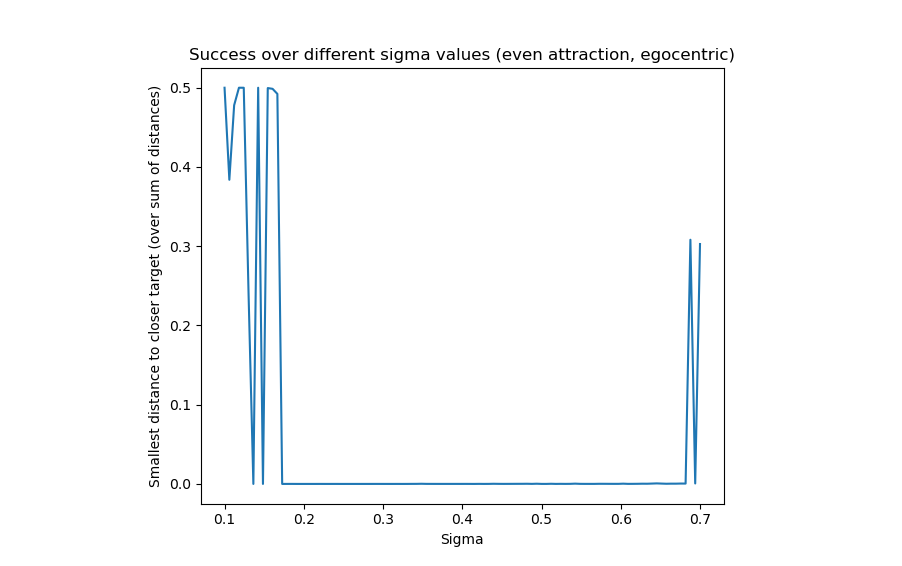
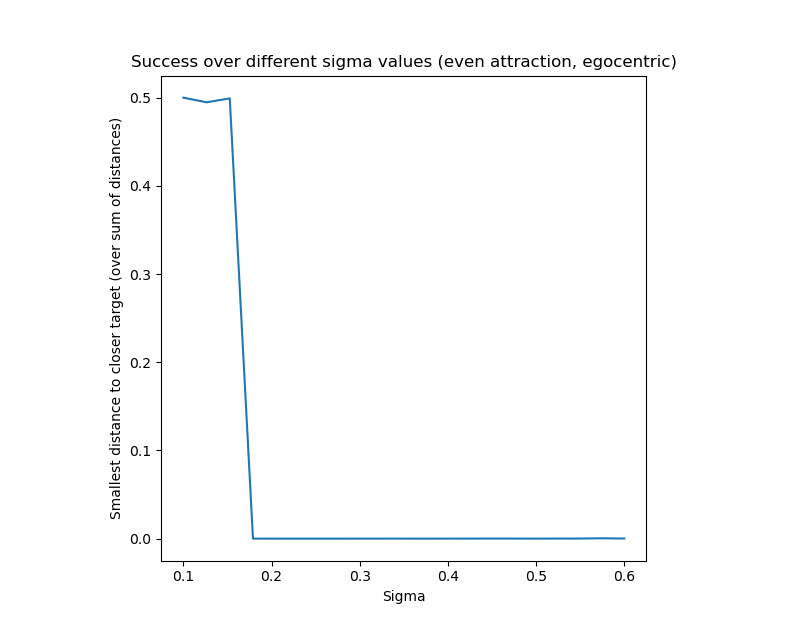
running 50 simulations for each parameter value and taking the mean success measure

diff --git a/simulations.py b/simulations.py
@@ -8,71 +8,56 @@ import simulation_metrics
 
 # --- Setting up the grid ---
 
-#number of neurons in the alpha ring
+# number of neurons in the alpha ring
 N = 100
 
-#total size of the grid
+# total size of the grid
 L = 100
 
 # --- Geometry-based parameters to change ---
 
-#number of targets
 ntargets = 2
-
-#number of agents: 
+ 
 nagents = 1
 
-#setting up the agent
 initialx = np.zeros(nagents)
 initialy = np.zeros(nagents)
 for a in range(nagents):
     initialx[a] = 20
     initialy[a] = 50
     
-#setting up the targets
 initialxt = [80,80]
 initialyt = [20,80]
 
-
-
-
-
 # --- Setting up the simulation ---
 
-#number of time steps
+# number of time steps
 T = 5000
 
-#periodic flag
 periodicflag = 0
 
-#rego
 rEgo = 0
 
-#in the original code the simulation is run 5 times with [0, 0.5, 1, 2, 4] as values
+# in the original code the simulation is run 5 times with [0, 0.5, 1, 2, 4] as values
 rEgoTarget = 0
 
-#egonumber
 Egonumber = 1
 
-#collision avoidance:
+# collision avoidance:
 hColl = -10
 rColl = 0
 
-#in the original code the simulation runs it on 0 once and then 1 five times
+# in the original code the simulation runs it on 0 once and then 1 five times
 distf = 1
 
-#this determines the "characteristic length of signal decay",
-#original code iterates through [1, 1, 2, 4, 8, 16]
+# original code iterates through [1, 1, 2, 4, 8, 16]
 adistf = 1
 
-#step size
 dt = 0.1
 
-#v0: velocity I believe
 v0 = 0.05
 
-#v0t: velocity of targets I believe
-#in the original code it is initialized to zero but that doesn't really make sense to me
+# not moving targets for now
 v0t = np.zeros(ntargets)
 for i in range(ntargets):
     v0t[i] = 0
@@ -92,79 +77,59 @@ for i in range(N):
 
 # --- Details of the simulation to change ---
 
-#allocentric flag
-allocentricFlag = [0]
+# 1 is allo, 0 is ego
+allocentricFlag = [1]
 
-#attraction
-h0s = [[0.45,0.46]]
+# attraction vector, first are attraction for targets, then agents
+h0s = [[0.45,0.45]]
 
-#hbase
 h_b = [0.2]
 
-#width of the gauss bump 
-sigma = np.linspace(0.1,0.7,num=100)
+# width of the gauss bump 
+sigma = np.linspace(0.1,0.6,num=20)
 
-#noise parameter 
+# noise parameter 
 beta = [100]
 
 # data we will collect each time we run the simulation
+# currently not collecting this
 targets_reached = []
 time_to_target = []
 movement_starts = []
-min_distance = []
+mean_distance = []
 
 decision1_time = []
 decision2_time = []
 
-allo = []
-attraction = []
-h_bs = []
-sigmas = []
-
 # number of times to run the simulation
-n_samples = 1
+n_samples = 50
 
 # -------- Running the simulation --------
 
-#this is running the sim with a bunch of changes in variables
+# this is running the sim with a bunch of changes in variables
 
-for sim in range(n_samples):
-    for orientation in range(len(allocentricFlag)):
-        for h in range(len(h0s)):
-            h0 = h0s[h]
-            for hb in range(len(h_b)):
-                for s in range(len(sigma)):
-                    for b in range(len(beta)):
+
+for orientation in range(len(allocentricFlag)):
+    for h in range(len(h0s)):
+        h0 = h0s[h]
+        for hb in range(len(h_b)):
+            for s in range(len(sigma)):
+                print(f"sigma: {s}")
+                for b in range(len(beta)):
+                    for sim in range(n_samples):
+                        min_distance = []
                         headings, xPos, yPos, targetsx, targetsy = simulate_ringattractor.simulate_ring_attractor(N,L,T,ntargets,nagents,allocentricFlag[orientation],periodicflag,rEgo,rEgoTarget,Egonumber,
                                     distf,adistf,J,beta[b],h0,h_b[hb],dt,v0,v0t,sigma[s],hColl,rColl,
                                     initialx,initialy,initialxt,initialyt,False,False)
-                        
-                        final_decision, time_reached, movement_start = simulation_metrics.get_destination_metrics(xPos,yPos,targetsx,targetsy)
-                        decision_indices = simulation_metrics.get_direction_info(headings,movement_start,time_reached,1)
-                        success_measure = simulation_metrics.get_min_distance(xPos, yPos, targetsx, targetsy, True, 1)
-                        movement_starts.append(movement_start)
-                        targets_reached.append(final_decision)
-                        time_to_target.append(time_reached)
+                        success_measure = simulation_metrics.get_min_distance(xPos, yPos, targetsx, targetsy, False)
                         min_distance.append(success_measure)
-                        allo.append(allocentricFlag[orientation])
-                        attraction.append(h0s[h])
-                        h_bs.append(h_b[hb])
-                        sigmas.append(sigma[s])
-                        if len(decision_indices) > 0:
-                            decision1_time.append(decision_indices[0])
-                        else:
-                            decision1_time.append(-1)
-                        print(f"time: {s}")
+                    mean_distance.append(np.mean(min_distance))
 
-sim_data = {'Distance to closest target over sum of distances': min_distance,'Final target': targets_reached,'Time to target': time_to_target, 'Movement starts': movement_starts, 'First decision time': decision1_time, 'Allocentric or egocentric': allo, 'Attraction': attraction, 'Base attraction': h_bs, 'sigma': sigmas}
-sim_df = pd.DataFrame(sim_data)
-pd.set_option('display.max_columns', None)
-sim_df.to_csv("simulation_resuts.csv") 
 
 # plot x axis as param of interest, plot y axis as success measure
 plt.figure(1)
-plt.plot(sigma, min_distance)
-plt.title("Success over different sigma values (uneven attraction, egocentric)")
+plt.plot(sigma, mean_distance)
+plt.title("Success over different sigma values (even attraction, allocentric)")
 plt.xlabel("Sigma")
-plt.ylabel("Smallest distance to better target (over sum of distances)")
+plt.ylabel("Smallest distance to closer target (over sum of distances)")
 plt.show()

diff --git a/simulate_ringattractor.py b/simulate_ringattractor.py
@@ -9,14 +9,12 @@ def simulate_ring_attractor(N,L,T,ntargets,nagents,allocentricFlag,periodic_flag
 
     # -------- INITIALIZATIONS WITHIN THE SIMULATION --------
 
-    #setting up the alpharing
     alpharing0 = np.linspace(0,2*np.pi, N+1)
     alpharing0 = alpharing0[:-1]
     alpharing = np.zeros((nagents,N))
     for a in range (nagents):
         alpharing[a,:] = alpharing0
 
-    #setting up array to hold ring states at different times
     uArray = np.zeros((N, nagents, T+1))
     u0 = 0.05*np.random.randn(N,nagents) #initialize randomly
     uArray[:,:,0] = u0
@@ -47,7 +45,6 @@ def simulate_ring_attractor(N,L,T,ntargets,nagents,allocentricFlag,periodic_flag
         Egocentric = np.zeros(nagents)
         
         #contribution of other agents
-
         for a in range(nagents):
             xa = xPos[a,tstep]
             ya = yPos[a,tstep]
@@ -60,7 +57,6 @@ def simulate_ring_attractor(N,L,T,ntargets,nagents,allocentricFlag,periodic_flag
 
                 dx = xb - xa
                 dy = yb - ya
-                #Periodic flag add (not yet)
 
                 if periodic_flag == 1:
                     if abs(dx) > L / 2:
@@ -71,7 +67,6 @@ def simulate_ring_attractor(N,L,T,ntargets,nagents,allocentricFlag,periodic_flag
                 distAB = np.sqrt(dx**2 + dy**2)
                 ampl = h0[ntargets+b]
                 if distf != 0: 
-                    #don't technically need this, but original code runs one sim with distf =0
                     ampl = ampl*(np.exp(-adistf*distAB/L))
                 if distAB < rColl:
                     ampl = hColl
@@ -108,7 +103,6 @@ def simulate_ring_attractor(N,L,T,ntargets,nagents,allocentricFlag,periodic_flag
                 
                 ampl = h0[ttarg]
                 if distf != 0: 
-                    #don't technically need this, but original code runs one sim with distf =0
                     ampl = ampl*(np.exp(-adistf*distAB/L))
                 
                 angleAB = np.atan2(dy,dx)
@@ -143,8 +137,6 @@ def simulate_ring_attractor(N,L,T,ntargets,nagents,allocentricFlag,periodic_flag
             for i in range(N):
                 cx = cx + (faPos[i] * np.cos(alpharing[a,i]))
                 cy = cy + (faPos[i] * np.sin(alpharing[a,i]))
-            #print(f"cx - step c: {cx}")
-            #print(f"cy - step c: {cy}")
             newAngle = 0
             #if the centers are close to zero use old heading 
             if (np.abs(cx) < 1e-9) and (np.abs(cy) < 1e-9):
@@ -157,7 +149,6 @@ def simulate_ring_attractor(N,L,T,ntargets,nagents,allocentricFlag,periodic_flag
 
             if allocentricFlag == 0:
                 alpharing[a,:] = np.mod(alpharing[a,:] - headings[a,tstep] + newAngle,2*np.pi)
-                #print(f"Ego update - step C: {alpharing[a,:]}")
             elif Egocentric[a] >= Egonumber:
                 alpharing[a,:] = np.mod(alpharing[a,:]-headings[a,tstep] + newAngle, 2*np.pi)
 
@@ -175,8 +166,6 @@ def simulate_ring_attractor(N,L,T,ntargets,nagents,allocentricFlag,periodic_flag
                     val = 0
                 cx_d = cx_d + val * np.cos(alpharing[a,i])
                 cy_d = cy_d + val * np.sin(alpharing[a,i])
-            #print(f"cx - step D: {cx_d}")
-            #print(f"cy - step D: {cy_d}")
             newx = oldx + dt * v0 * cx_d
             newy = oldy + dt * v0 * cy_d
 
@@ -192,9 +181,6 @@ def simulate_ring_attractor(N,L,T,ntargets,nagents,allocentricFlag,periodic_flag
                 newy = 0
             elif newy > L:
                 newy = L
-
-            #print(f"newx: {newx}")
-            #print(f"newy: {newy}")
             xPos[a,tstep+1] = newx
             yPos[a,tstep+1] = newy
 
@@ -226,17 +212,17 @@ def simulate_ring_attractor(N,L,T,ntargets,nagents,allocentricFlag,periodic_flag
             
 
         # -------- STEP F - VIZ --------
-        plot_col= 'blue'
-        if allocentricFlag == 0:
-            plot_col = 'green'
         if plot == True:
+            plot_col= 'blue'
+            if allocentricFlag == 0:
+                plot_col = 'green'
+
             if tstep % 100 == 0:
                 # Plot agents
                 plt.scatter(
                     xPos[:, tstep + 1],
                     yPos[:, tstep + 1],
                     s = 10,
-                    #c = [[0, 0.2, 0.8]],
                     color = plot_col
                 )
 
@@ -271,8 +257,10 @@ def simulate_ring_attractor(N,L,T,ntargets,nagents,allocentricFlag,periodic_flag
                     targetXPos = targetXPos[:,:tstep+1]
                     targetYPos = targetYPos[:,:tstep+1]
                     return headings, xPos, yPos, targetXPos, targetYPos
+                
+        if plot == True:
+            plt.show(block = False)
 
-        plt.show(block = False)
     return headings, xPos, yPos, targetXPos, targetYPos
 
 #function for creating an evenly spaced grid

diff --git a/simulation_metrics.py b/simulation_metrics.py
@@ -45,7 +45,7 @@ def get_destination_metrics(xPos, yPos, targetsx, targetsy , stopping_distance =
             time_target_reached = index
             break
 
-    # finding the time the agent starts moving. 
+    # finding the time the agent starts moving
     # first calculate the initial closest distance and use that as decision boundary?
     init_distance = 10000
     for i in range(ntargets):
